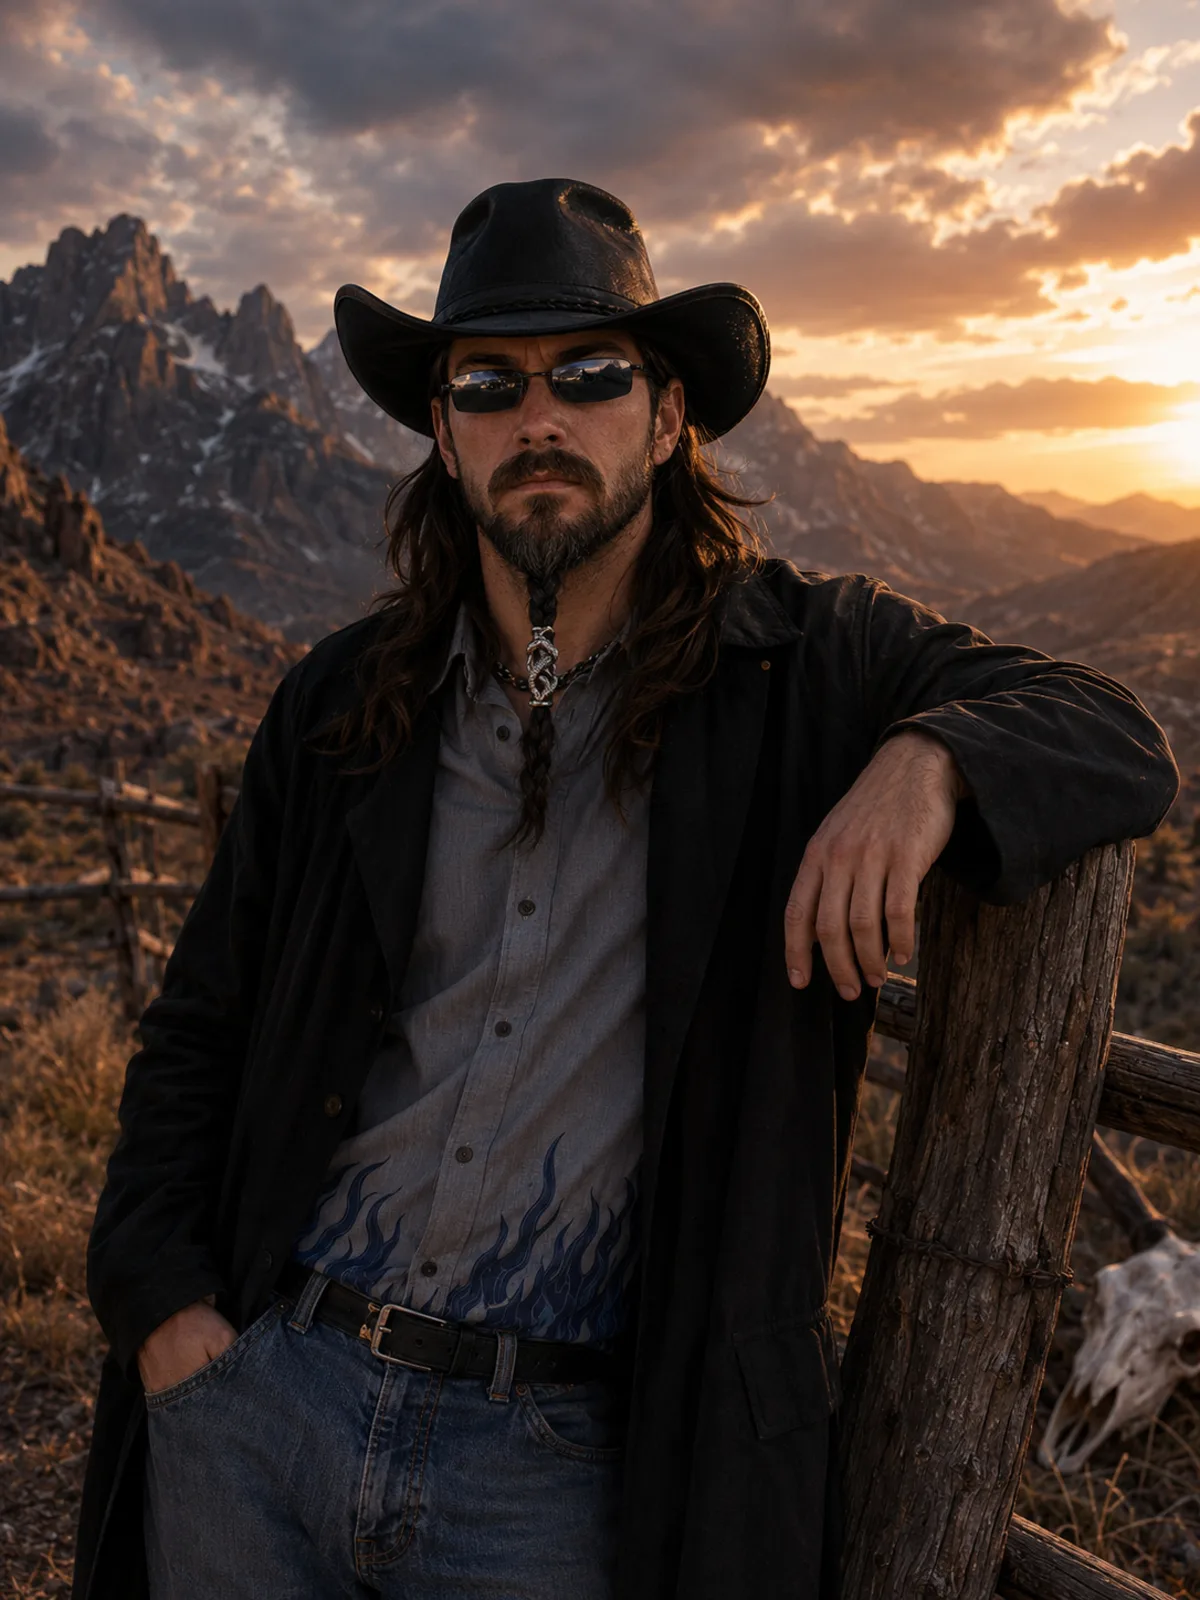
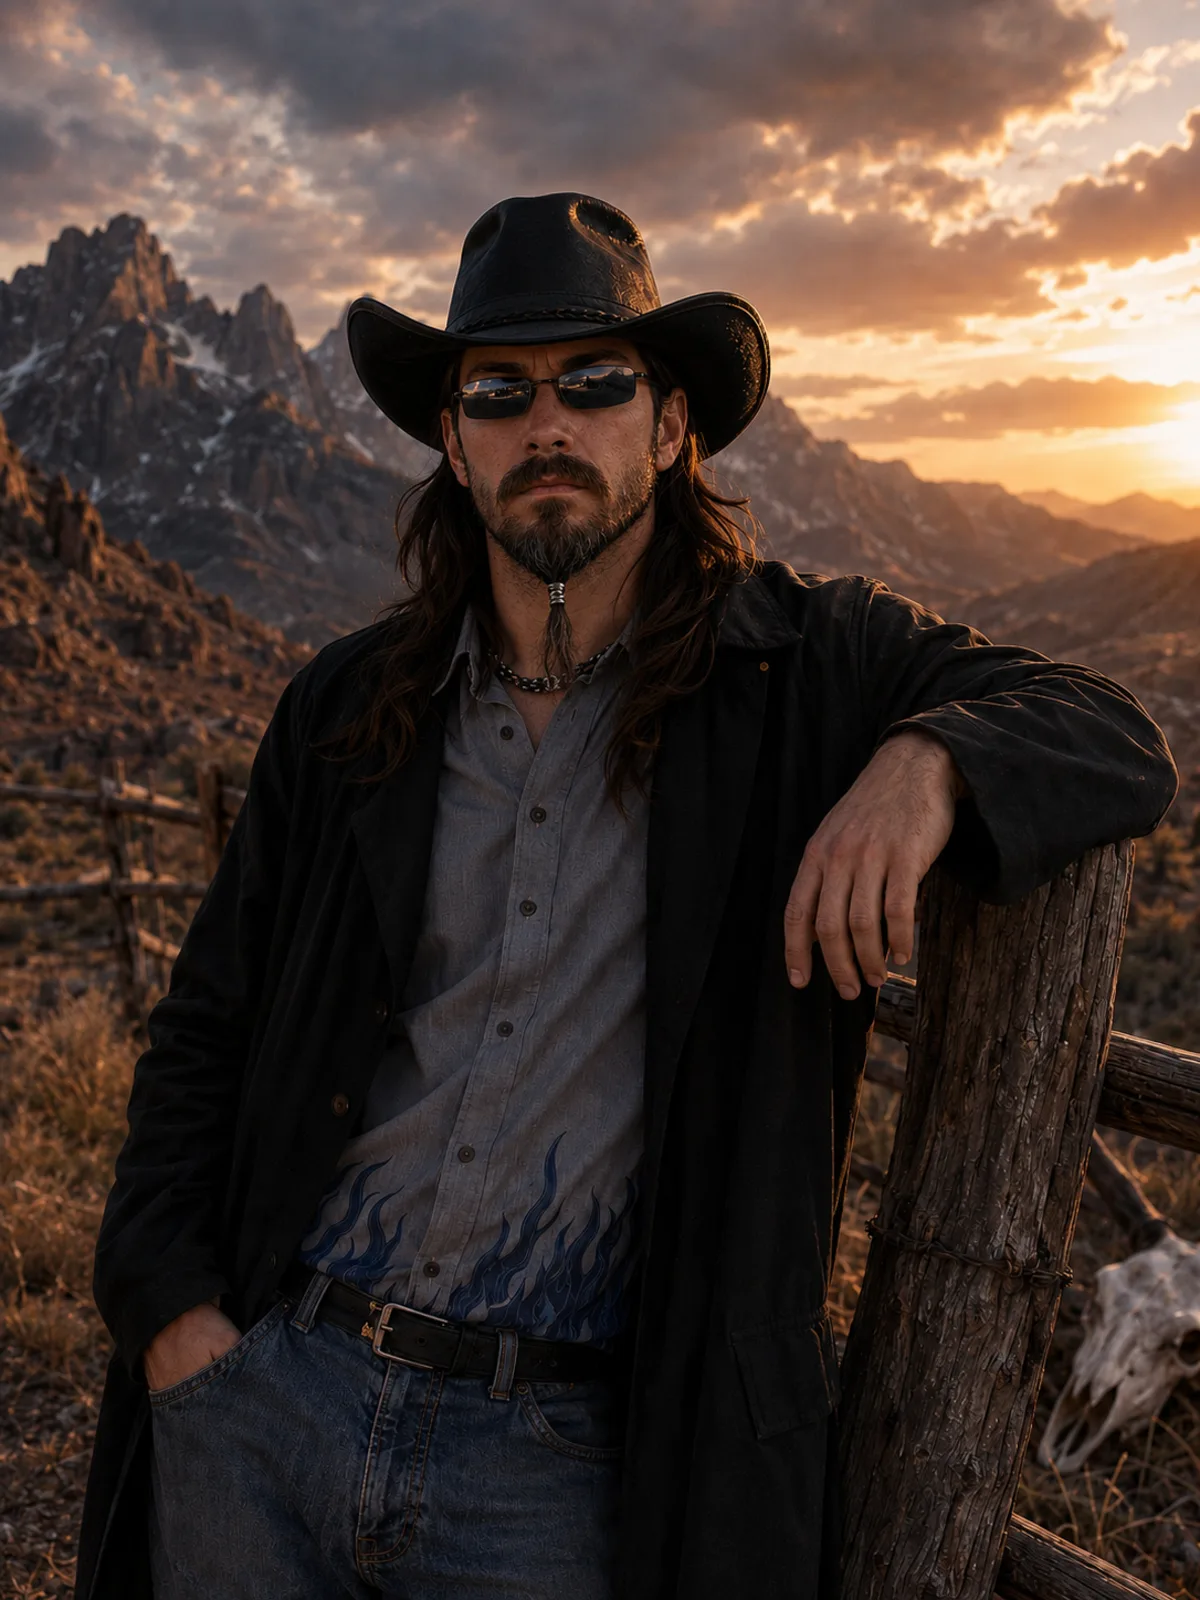
Portrait: swap in the more accurate likeness
New hero portrait supplied by daladim. 1086x1448 is already exactly 3:4, so
it fits the plate with no distortion and a clean centre crop.

The previous fence shot is kept as alt-fence-v1.webp rather than overwritten -
retiring an image is not the same as deleting it.

Recorded in the assets README: every generated portrait so far renders the
beard longer than it is and the beard bead far larger. The correction is
written as a POSITIVE description ("a short, close-trimmed beard; hair loose,
with a small plain cord") because image models have no negative channel -
"no large beard bead" reliably draws a large beard bead.

diff --git a/assets/README.md b/assets/README.md
@@ -42,9 +42,22 @@ important sits at the very edge.
 
 ## Swapping the portrait
 
-Three alternates are already sitting in `portrait/`: `alt-mountain.webp`,
+Alternates already sit in `portrait/`: `alt-fence-v1.webp`, `alt-mountain.webp`,
 `alt-cowboy.webp`, `alt-illustration.webp`. To use one, change the single
 filename in the hero `<div class="plate plate--portrait">` in `index.html`.
+
+### Generating a better likeness
+
+Two things every generated portrait so far has got wrong: **the beard comes out
+longer than it is, and the beard bead comes out far too big.**
+
+Write the correction as a **positive description**, never as a negation. Image
+models have no negative channel, so "no large beard bead" reliably *draws* a
+large beard bead. Say what IS there:
+
+> *a short, close-trimmed beard; hair loose, with a small plain cord*
+
+rather than "not a long beard, no big bead."
 
 ## Full-size originals
 
